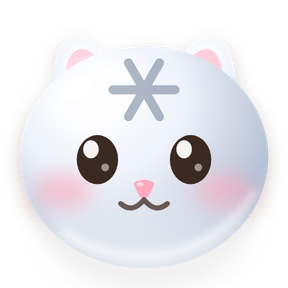
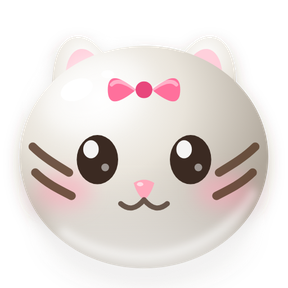
오름냥 화면을 밝은 오렌지 셔벗 테마로 + 구름냥을 태비냥으로
- 배경: 어두운 보라 -> 위는 흰색 아래로 갈수록 살구빛. 타이틀·지도·게임·팝업 전부
- 배경이 밝아지면서 안 보이게 된 것들을 같이 손봤다
  보드 바탕칸(흰 반투명 -> 흰 카드), 돌담(시커멨음 -> 밝은 현무암),
  지도의 잠긴 칸, 고른 칸·힌트 테두리, 버튼 그림자, 팝업 글자색
- cat6: 순백은 밝은 바탕에서 묻혀서 태비냥으로 바꿨다.
  회백색 몸 + 진한 갈색 뺨줄무늬 두 줄(바깥으로 갈수록 위로) + 분홍 리본
- style.css 버전 표시를 올려서 예전 css 가 남지 않게 했다

diff --git a/games/mini/oreumnyang/style.css b/games/mini/oreumnyang/style.css
@@ -1,16 +1,20 @@
 /* ============ 오름냥 ============ */
 :root{
-  --bg1:#2b2440; --bg2:#3d3160;
-  --panel:rgba(255,255,255,.10);
-  --panel-solid:#4a3c72;
-  --ink:#fff8f0;
-  --ink-dim:rgba(255,248,240,.62);
-  --accent:#ffcf5c;
-  --accent2:#ff8fb1;
-  --good:#6fe0b8;
-  --bad:#ff7b6b;
+  /* 오렌지 셔벗 - 위는 흰색, 아래로 갈수록 주황 */
+  --bg-top:#ffffff; --bg-mid:#fff3e4; --bg-low:#ffd9ae; --bg-bot:#ffc489;
+  --panel:rgba(255,255,255,.92);
+  --panel-solid:#ffffff;
+  --ink:#7a4718;
+  --ink-dim:rgba(122,71,24,.62);
+  --accent:#ff8420;
+  --accent2:#ff7ba6;
+  --good:#2aa17c;
+  --bad:#e0523c;
+  /* 버튼 아래 두께(입체감). 예전엔 검정이었는데 밝은 바탕에선 캬라멜색이 맞다 */
+  --sunk:rgba(200,130,60,.42);
+  --edge:rgba(200,140,80,.26);
   --radius:18px;
-  --shadow:0 8px 24px rgba(0,0,0,.28);
+  --shadow:0 8px 24px rgba(180,110,40,.20);
   --font: "Pretendard","Apple SD Gothic Neo","Malgun Gothic","Noto Sans KR",system-ui,sans-serif;
 }
 *{box-sizing:border-box;-webkit-tap-highlight-color:transparent}
@@ -19,7 +23,8 @@ html,body{height:100%;margin:0}
 @supports (height:100dvh){ html,body{height:100dvh} }
 body{
   font-family:var(--font); color:var(--ink);
-  background:radial-gradient(120% 90% at 50% 0%, var(--bg2), var(--bg1) 70%) fixed;
+  background:linear-gradient(180deg,
+      var(--bg-top) 0%, var(--bg-mid) 38%, var(--bg-low) 78%, var(--bg-bot) 100%) fixed;
   overflow:hidden; user-select:none;
 }
 #app{position:relative;width:100%;height:100%;max-width:560px;margin:0 auto;overscroll-behavior:none}
@@ -38,16 +43,17 @@ body{
 }
 .btn:active{transform:scale(.95)}
 .btn-primary{
-  background:linear-gradient(180deg,#ffd97a,#ffab3f);color:#4a2c00;
-  box-shadow:0 5px 0 #c97b1a, var(--shadow);
+  background:linear-gradient(180deg,#ffa94d,#ff8420);color:#fff;
+  box-shadow:0 5px 0 #d96608, var(--shadow);
 }
-.btn-primary:active{box-shadow:0 2px 0 #c97b1a;transform:translateY(3px) scale(.99)}
-.btn-ghost{background:rgba(255,255,255,.12);box-shadow:0 4px 0 rgba(0,0,0,.22)}
-.btn-ghost:active{box-shadow:0 1px 0 rgba(0,0,0,.22);transform:translateY(3px)}
+.btn-primary:active{box-shadow:0 2px 0 #d96608;transform:translateY(3px) scale(.99)}
+.btn-ghost{background:var(--panel);box-shadow:0 4px 0 var(--sunk)}
+.btn-ghost:active{box-shadow:0 1px 0 var(--sunk);transform:translateY(3px)}
 .btn-lg{font-size:19px;padding:16px 44px}
 .icon-btn{
   width:42px;height:42px;border:none;border-radius:14px;cursor:pointer;
-  background:rgba(255,255,255,.12);color:var(--ink);font-size:17px;line-height:1;
+  background:var(--panel);color:var(--accent);font-size:17px;line-height:1;
+  box-shadow:0 3px 0 var(--sunk);
 }
 .icon-btn:active{transform:scale(.92)}
 .snd-pair{display:flex;gap:6px;flex:0 0 auto}
@@ -57,7 +63,7 @@ body{
 .icon-btn.snd.off{opacity:.45}
 .icon-btn.snd.off::after{
   content:"";position:absolute;left:6px;right:6px;top:50%;height:2px;border-radius:2px;
-  background:var(--bad);transform:rotate(-38deg);box-shadow:0 0 0 1px rgba(0,0,0,.35);
+  background:var(--bad);transform:rotate(-38deg);box-shadow:0 0 0 1px rgba(255,255,255,.8);
 }
 
 /* ---- 타이틀 ---- */
@@ -67,19 +73,19 @@ body{
 .logo{
   width:100%;max-width:100%;
   font-size:clamp(21px,6.3vw,36px);margin:4px 0 0;letter-spacing:1.5px;font-weight:900;
-  background:linear-gradient(180deg,#fff,#ffcf5c 60%,#ff8fb1);
+  background:linear-gradient(180deg,#ffb35a,#ff7a1f 58%,#e8546e);
   -webkit-background-clip:text;background-clip:text;color:transparent;
-  filter:drop-shadow(0 4px 0 rgba(0,0,0,.25));
+  filter:drop-shadow(0 4px 0 rgba(255,255,255,.9));
 }
 .logo-sub{margin:2px 0 22px;color:var(--ink-dim);font-weight:700;letter-spacing:1px;font-size:12.5px}
 .title-btns{display:flex;flex-direction:column;gap:12px;align-items:center}
 .title-progress{margin-top:18px;color:var(--ink-dim);font-size:13px;font-weight:700}
 .btn-lang{
-  margin-top:14px;background:rgba(255,255,255,.10);border:1px solid rgba(255,255,255,.18);
+  margin-top:14px;background:var(--panel);border:1px solid var(--edge);
   color:var(--ink-dim);font-family:inherit;font-weight:700;font-size:12.5px;
   padding:7px 16px;border-radius:999px;cursor:pointer;letter-spacing:.5px;
 }
-.btn-lang:hover{color:var(--ink);border-color:rgba(255,255,255,.4)}
+.btn-lang:hover{color:var(--ink);border-color:var(--accent)}
 .btn-lang:active{transform:scale(.95)}
 
 /* ---- 상단바 ---- */
@@ -103,29 +109,30 @@ body{
   display:flex;align-items:center;gap:10px;margin:0 0 12px;
   font-size:14px;font-weight:900;color:var(--ink-dim);
 }
-.chapter-head::after{content:"";flex:1;height:2px;border-radius:2px;background:rgba(255,255,255,.10)}
+.chapter-head::after{content:"";flex:1;height:2px;border-radius:2px;background:var(--edge)}
 .chapter-head .cnum{
   background:var(--panel);border-radius:8px;padding:4px 9px;font-size:11px;color:var(--ink)
 }
 .nodes{display:grid;grid-template-columns:repeat(5,1fr);gap:10px}
 .node{
   position:relative;aspect-ratio:1;border:none;border-radius:16px;cursor:pointer;
-  background:linear-gradient(180deg,#6b58a3,#523f86);
-  box-shadow:0 4px 0 rgba(0,0,0,.3);
+  background:linear-gradient(180deg,#ffffff,#fff0dc);
+  box-shadow:0 4px 0 var(--sunk);
   color:var(--ink);font-weight:900;font-size:16px;font-family:inherit;
   display:flex;align-items:center;justify-content:center;
 }
-.node:active{transform:translateY(2px);box-shadow:0 2px 0 rgba(0,0,0,.3)}
-.node.locked{background:rgba(255,255,255,.07);color:rgba(255,255,255,.28);box-shadow:none;cursor:default}
-.node.cleared{background:linear-gradient(180deg,#7fd7a8,#41ab7d);box-shadow:0 4px 0 #2b7a58;color:#0d3b28}
-.node.current{background:linear-gradient(180deg,#ffd97a,#ffab3f);box-shadow:0 4px 0 #c97b1a;color:#4a2c00;animation:bob 1.4s ease-in-out infinite}
-.node.boss::before{content:"👑";position:absolute;top:-9px;font-size:15px;filter:drop-shadow(0 2px 2px rgba(0,0,0,.4))}
+.node:active{transform:translateY(2px);box-shadow:0 2px 0 var(--sunk)}
+.node.locked{background:#fff1de;color:rgba(122,71,24,.42);box-shadow:inset 0 0 0 2px rgba(200,140,80,.16);cursor:default}
+.node.cleared{background:linear-gradient(180deg,#8fe0b8,#4ab98d);box-shadow:0 4px 0 #2b7a58;color:#0d3b28}
+.node.current{background:linear-gradient(180deg,#ffb864,#ff8f2e);box-shadow:0 4px 0 #d9700f;color:#fff;animation:bob 1.4s ease-in-out infinite}
+.node.boss::before{content:"👑";position:absolute;top:-9px;font-size:15px;filter:drop-shadow(0 2px 2px rgba(180,110,40,.45))}
 @keyframes bob{0%,100%{transform:translateY(0)}50%{transform:translateY(-5px)}}
 .node .ns{
-  position:absolute;bottom:3px;left:0;right:0;font-size:9px;letter-spacing:1px;color:#ffd54a;
-  text-shadow:0 1px 1px rgba(0,0,0,.5)
+  position:absolute;bottom:3px;left:0;right:0;font-size:9px;letter-spacing:1px;color:#f0900f;
+  text-shadow:0 1px 1px rgba(255,255,255,.9)
 }
-.node.cleared .ns{color:#fff2b0}
+.node.current .ns{color:#fff8e6;text-shadow:0 1px 1px rgba(180,90,10,.5)}
+.node.cleared .ns{color:#0f5f45;text-shadow:0 1px 1px rgba(255,255,255,.6)}
 
 /* ---- HUD ---- */
 .hud{
@@ -134,19 +141,21 @@ body{
 .hud-cap{font-size:10px;color:var(--ink-dim);font-weight:700;letter-spacing:.5px}
 .hud-val{font-size:22px;font-weight:900;line-height:1.05}
 .hud-moves{
-  background:var(--panel);border-radius:14px;padding:7px 12px;text-align:center;min-width:64px
+  background:var(--panel);border-radius:14px;padding:7px 12px;text-align:center;min-width:64px;
+  box-shadow:0 3px 0 var(--sunk)
 }
 .hud-moves.low .hud-val{color:var(--bad);animation:pulse .7s infinite}
 @keyframes pulse{0%,100%{transform:scale(1)}50%{transform:scale(1.14)}}
-.hud-score{background:var(--panel);border-radius:14px;padding:7px 12px;min-width:88px;text-align:right}
-.score-bar{position:relative;height:6px;border-radius:3px;background:rgba(0,0,0,.28);margin-top:4px;overflow:visible}
-.score-bar i{position:absolute;inset:0;width:0%;border-radius:3px;background:linear-gradient(90deg,#6fe0b8,#ffcf5c);transition:width .3s}
-.score-bar .mark{position:absolute;top:-2px;width:2px;height:10px;border-radius:1px;background:rgba(255,255,255,.5)}
+.hud-score{background:var(--panel);border-radius:14px;padding:7px 12px;min-width:88px;text-align:right;box-shadow:0 3px 0 var(--sunk)}
+.score-bar{position:relative;height:6px;border-radius:3px;background:rgba(200,140,80,.28);margin-top:4px;overflow:visible}
+.score-bar i{position:absolute;inset:0;width:0%;border-radius:3px;background:linear-gradient(90deg,#3fbf96,#ff9a2e);transition:width .3s}
+.score-bar .mark{position:absolute;top:-2px;width:2px;height:10px;border-radius:1px;background:rgba(122,71,24,.42)}
 .score-bar .m1{left:55%}.score-bar .m2{left:80%}
 .hud-goals{flex:1;display:flex;gap:7px;justify-content:center;flex-wrap:wrap}
 .goal{
   position:relative;display:flex;flex-direction:column;align-items:center;gap:2px;
   background:var(--panel);border-radius:14px;padding:5px 9px;min-width:52px;
+  box-shadow:0 3px 0 var(--sunk);
 }
 .goal canvas,.goal .gi{width:26px;height:26px;display:block;font-size:22px;line-height:26px;text-align:center}
 .goal .gn{font-size:12px;font-weight:900}
@@ -163,8 +172,9 @@ body{
 }
 .toast{
   position:absolute;left:50%;top:44%;transform:translate(-50%,-50%) scale(.6);
-  font-size:30px;font-weight:900;color:#fff;opacity:0;pointer-events:none;
-  text-shadow:0 3px 0 rgba(0,0,0,.35), 0 0 24px var(--accent);white-space:nowrap;
+  font-size:30px;font-weight:900;color:#ff6b00;opacity:0;pointer-events:none;
+  text-shadow:0 3px 0 #fff, 0 2px 10px rgba(255,255,255,.95), 0 0 26px rgba(255,180,90,.9);
+  white-space:nowrap;
 }
 .toast.show{animation:toastPop 1s ease-out}
 @keyframes toastPop{
@@ -179,13 +189,13 @@ body{
 .tool{
   position:relative;display:flex;align-items:center;gap:7px;font-family:inherit;
   background:var(--panel);border:none;border-radius:16px;padding:9px 18px;cursor:pointer;
-  color:var(--ink);font-weight:800;font-size:13px;box-shadow:0 4px 0 rgba(0,0,0,.22);
+  color:var(--ink);font-weight:800;font-size:13px;box-shadow:0 4px 0 var(--sunk);
 }
-.tool:active{transform:translateY(2px);box-shadow:0 2px 0 rgba(0,0,0,.22)}
+.tool:active{transform:translateY(2px);box-shadow:0 2px 0 var(--sunk)}
 .tool:disabled{opacity:.4;box-shadow:none}
 .tool-ico{font-size:18px}
 .tool-badge{
-  position:absolute;top:-6px;right:-6px;background:var(--accent2);color:#4a1020;
+  position:absolute;top:-6px;right:-6px;background:var(--accent2);color:#fff;
   font-size:11px;font-weight:900;border-radius:999px;min-width:19px;height:19px;
   display:flex;align-items:center;justify-content:center;font-style:normal;
 }
@@ -193,14 +203,14 @@ body{
 /* ---- 오버레이 ---- */
 .overlay{
   position:fixed;inset:0;display:none;align-items:center;justify-content:center;
-  background:rgba(20,14,38,.72);backdrop-filter:blur(4px);z-index:50;padding:20px;
+  background:rgba(255,232,206,.76);backdrop-filter:blur(4px);z-index:50;padding:20px;
 }
 .overlay.show{display:flex;animation:fade .18s ease-out both}
 @keyframes fade{from{opacity:0}to{opacity:1}}
 .card{
-  width:100%;max-width:330px;background:linear-gradient(180deg,#5b4a91,#463777);
+  width:100%;max-width:330px;background:linear-gradient(180deg,#ffffff,#fff3e3);
   border-radius:26px;padding:26px 22px 22px;text-align:center;
-  box-shadow:0 18px 44px rgba(0,0,0,.45), inset 0 0 0 2px rgba(255,255,255,.09);
+  box-shadow:0 18px 44px rgba(180,110,40,.30), inset 0 0 0 2px rgba(255,255,255,.9);
   animation:cardIn .26s cubic-bezier(.2,1.4,.5,1);
 }
 /* 놀이 방법처럼 글이 긴 창은 화면을 넘지 않게 하고, 넘치면 안에서 굴립니다 */
@@ -210,12 +220,12 @@ body{
   overscroll-behavior:contain;-webkit-overflow-scrolling:touch;
 }
 .card-wide::-webkit-scrollbar{width:6px}
-.card-wide::-webkit-scrollbar-thumb{background:rgba(255,255,255,.22);border-radius:3px}
+.card-wide::-webkit-scrollbar-thumb{background:rgba(200,140,80,.34);border-radius:3px}
 @keyframes cardIn{from{transform:scale(.8) translateY(20px)}to{transform:none}}
 .card h2{margin:6px 0 14px;font-size:24px}
 .card-wide h2{text-align:center;margin:2px 0 12px;font-size:21px}
 .card-badge{
-  display:inline-block;background:var(--accent);color:#4a2c00;font-weight:900;
+  display:inline-block;background:var(--accent);color:#fff;font-weight:900;
   padding:5px 15px;border-radius:999px;font-size:13px;
 }
 .card-note{color:var(--ink-dim);font-size:12.5px;line-height:1.6;margin:12px 0 18px}
@@ -224,27 +234,27 @@ body{
 .card-btns .btn{flex:1;padding:13px 8px;font-size:15px}
 .goal-list{display:flex;flex-direction:column;gap:9px;margin:4px 0 4px}
 .goal-row{
-  display:flex;align-items:center;gap:11px;background:rgba(0,0,0,.20);
+  display:flex;align-items:center;gap:11px;background:rgba(255,164,60,.14);
   border-radius:14px;padding:9px 14px;text-align:left;font-weight:800;font-size:14px;
 }
 .goal-row canvas,.goal-row .gi{width:30px;height:30px;flex:0 0 auto;font-size:25px;line-height:30px;text-align:center}
 .stars{display:flex;justify-content:center;gap:8px;margin-bottom:4px}
 .stars i{
-  width:40px;height:40px;background:rgba(0,0,0,.25);border-radius:50%;
+  width:40px;height:40px;background:rgba(200,140,80,.18);border-radius:50%;
   display:block;position:relative;
 }
 .stars i::after{
   content:"★";position:absolute;inset:0;display:flex;align-items:center;justify-content:center;
-  font-size:24px;font-style:normal;color:rgba(255,255,255,.16);
+  font-size:24px;font-style:normal;color:rgba(122,71,24,.18);
 }
-.stars i.on::after{color:var(--accent);text-shadow:0 0 12px rgba(255,207,92,.8);animation:starPop .35s cubic-bezier(.2,1.6,.4,1) both}
-.stars i.on{background:rgba(255,207,92,.16)}
+.stars i.on::after{color:var(--accent);text-shadow:0 0 12px rgba(255,150,50,.7);animation:starPop .35s cubic-bezier(.2,1.6,.4,1) both}
+.stars i.on{background:rgba(255,132,32,.18)}
 .stars i:nth-child(2).on::after{animation-delay:.14s}
 .stars i:nth-child(3).on::after{animation-delay:.28s}
 @keyframes starPop{from{transform:scale(0) rotate(-40deg)}to{transform:none}}
-.howto p{font-size:13px;line-height:1.6;color:rgba(255,248,240,.88);margin:0 0 8px}
+.howto p{font-size:13px;line-height:1.6;color:rgba(122,71,24,.88);margin:0 0 8px}
 .howto b{color:var(--accent)}
-.credit{margin:16px 0 0;text-align:center;font-size:11.5px;color:rgba(255,248,240,.45)}
+.credit{margin:16px 0 0;text-align:center;font-size:11.5px;color:rgba(122,71,24,.45)}
 #howto-close{display:block;margin:14px auto 4px}
 
 /* 움직임을 줄이는 설정을 켠 사람에게는 애니메이션을 끈다 */

diff --git a/games/mini/oreumnyang/js/cats.js b/games/mini/oreumnyang/js/cats.js
@@ -333,10 +333,10 @@
     g.save();
     roundRect(g, x - h, y - h, h * 2, h * 2, size * 0.13);
     var grd = g.createLinearGradient(x - h, y - h, x + h, y + h);
-    grd.addColorStop(0, hp >= 2 ? '#6E6A66' : '#8B8781');
-    grd.addColorStop(1, hp >= 2 ? '#3B3936' : '#57534E');
+    grd.addColorStop(0, hp >= 2 ? '#A9A49C' : '#C4BEB4');
+    grd.addColorStop(1, hp >= 2 ? '#736E67' : '#948E85');
     g.fillStyle = grd; g.fill();
-    g.strokeStyle = 'rgba(20,18,16,.6)'; g.lineWidth = size * 0.045; g.stroke();
+    g.strokeStyle = 'rgba(90,80,68,.45)'; g.lineWidth = size * 0.045; g.stroke();
 
     // 돌 쌓인 결 + 현무암 구멍
     g.save();
@@ -349,18 +349,18 @@
         g.ellipse(x + cx * h, y + row[0] * h, h * 0.36, h * 0.27, 0, 0, Math.PI * 2);
         g.fillStyle = hp >= 2 ? 'rgba(255,255,255,.10)' : 'rgba(255,255,255,.14)';
         g.fill();
-        g.strokeStyle = 'rgba(0,0,0,.35)'; g.lineWidth = size * 0.02; g.stroke();
+        g.strokeStyle = 'rgba(90,80,68,.30)'; g.lineWidth = size * 0.02; g.stroke();
       });
     });
     // 숭숭 뚫린 구멍
-    g.fillStyle = 'rgba(0,0,0,.32)';
+    g.fillStyle = 'rgba(80,70,60,.26)';
     [[-0.42, -0.44], [0.3, -0.28], [-0.2, 0.18], [0.46, 0.42], [-0.5, 0.5]].forEach(function (q) {
       g.beginPath(); g.arc(x + q[0] * h, y + q[1] * h, size * 0.028, 0, Math.PI * 2); g.fill();
     });
     g.restore();
 
     if (hp >= 2) {
-      g.fillStyle = 'rgba(255,255,255,.92)';
+      g.fillStyle = 'rgba(60,52,44,.92)';
       g.font = '900 ' + (size * 0.28) + 'px sans-serif';
       g.textAlign = 'center'; g.textBaseline = 'middle';
       g.fillText('2', x, y);

diff --git a/games/mini/oreumnyang/js/game.js b/games/mini/oreumnyang/js/game.js
@@ -1057,7 +1057,7 @@
     for (r = 0; r < this.H; r++) for (c = 0; c < this.W; c++) {
       if (this.wall[r][c]) continue;
       var even = (r + c) % 2 === 0;
-      g.fillStyle = even ? 'rgba(255,255,255,.13)' : 'rgba(255,255,255,.07)';
+      g.fillStyle = even ? 'rgba(255,255,255,.92)' : 'rgba(255,255,255,.58)';
       Cats.roundRect(g, c * T + 2, r * T + 2, T - 4, T - 4, T * 0.22);
       g.fill();
     }
@@ -1069,7 +1069,7 @@
 
     // 선택 표시
     if (this.sel) {
-      g.strokeStyle = 'rgba(255,207,92,.95)';
+      g.strokeStyle = 'rgba(255,122,31,.95)';
       g.lineWidth = Math.max(3, T * 0.06);
       Cats.roundRect(g, this.sel[1] * T + 3, this.sel[0] * T + 3, T - 6, T - 6, T * 0.22);
       g.stroke();
@@ -1077,7 +1077,7 @@
     // 힌트
     if (this.hint) {
       var pulse = 0.5 + 0.5 * Math.sin(now * 0.006);
-      g.strokeStyle = 'rgba(120,255,200,' + (0.4 + pulse * 0.5) + ')';
+      g.strokeStyle = 'rgba(20,170,130,' + (0.45 + pulse * 0.5) + ')';
       g.lineWidth = Math.max(3, T * 0.055);
       this.hint.forEach(function (rc) {
         Cats.roundRect(g, rc[1] * T + 3, rc[0] * T + 3, T - 6, T - 6, T * 0.22);

diff --git a/games/mini/oreumnyang/index.html b/games/mini/oreumnyang/index.html
@@ -16,7 +16,7 @@
 <meta name="twitter:title" content="오름냥 - 제주 고양이 퍼즐 200판">
 <meta name="twitter:description" content="오름냥 - 가볍게 즐기는 퍼즐게임! 한판만 하려다 어느새 101판째! 설치도 회원가입도 없이 브라우저에서 바로 하는 웹게임. 고양이 3매치 200판.">
 <meta name="twitter:image" content="https://oreumgames.com/assets/oreumnyang-og.webp?v=2">
-<link rel="stylesheet" href="style.css?v=20260820a">
+<link rel="stylesheet" href="style.css?v=20260820b">
 </head>
 <body>
 
